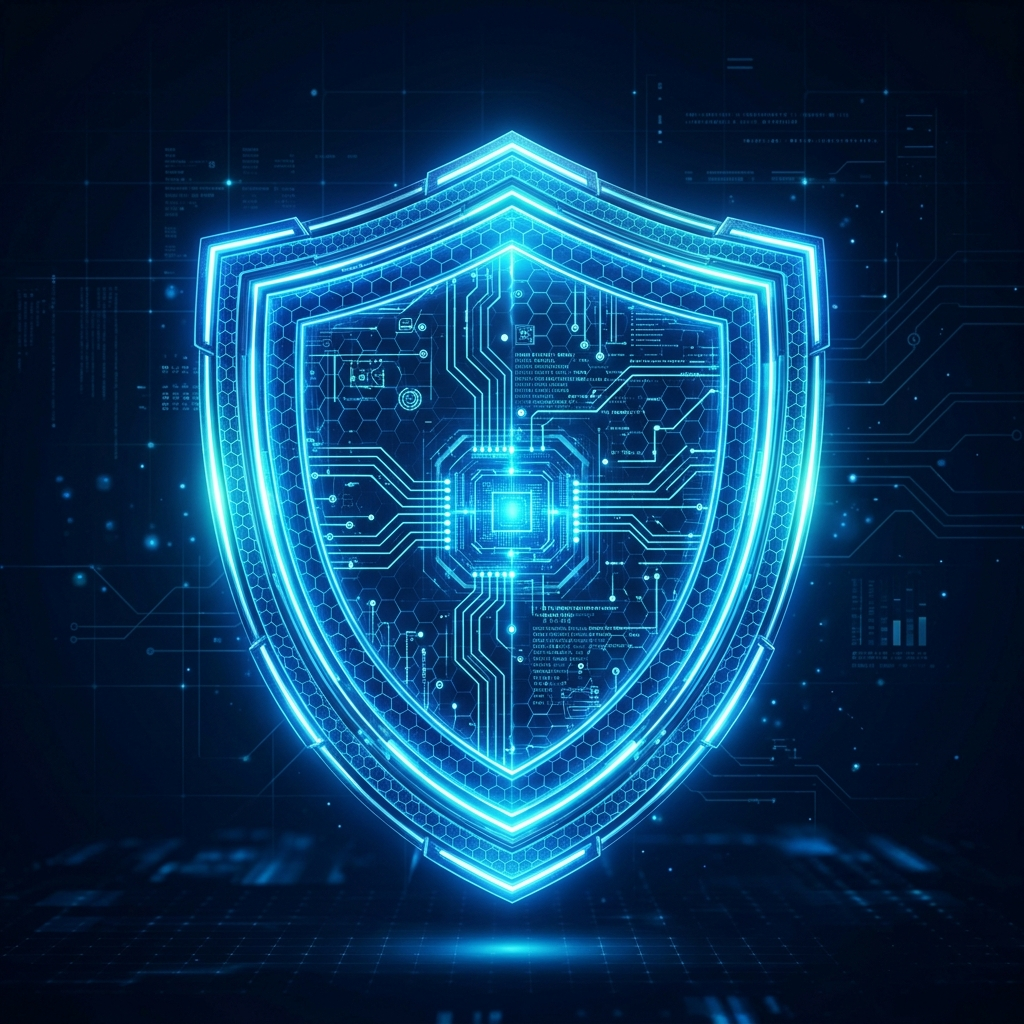
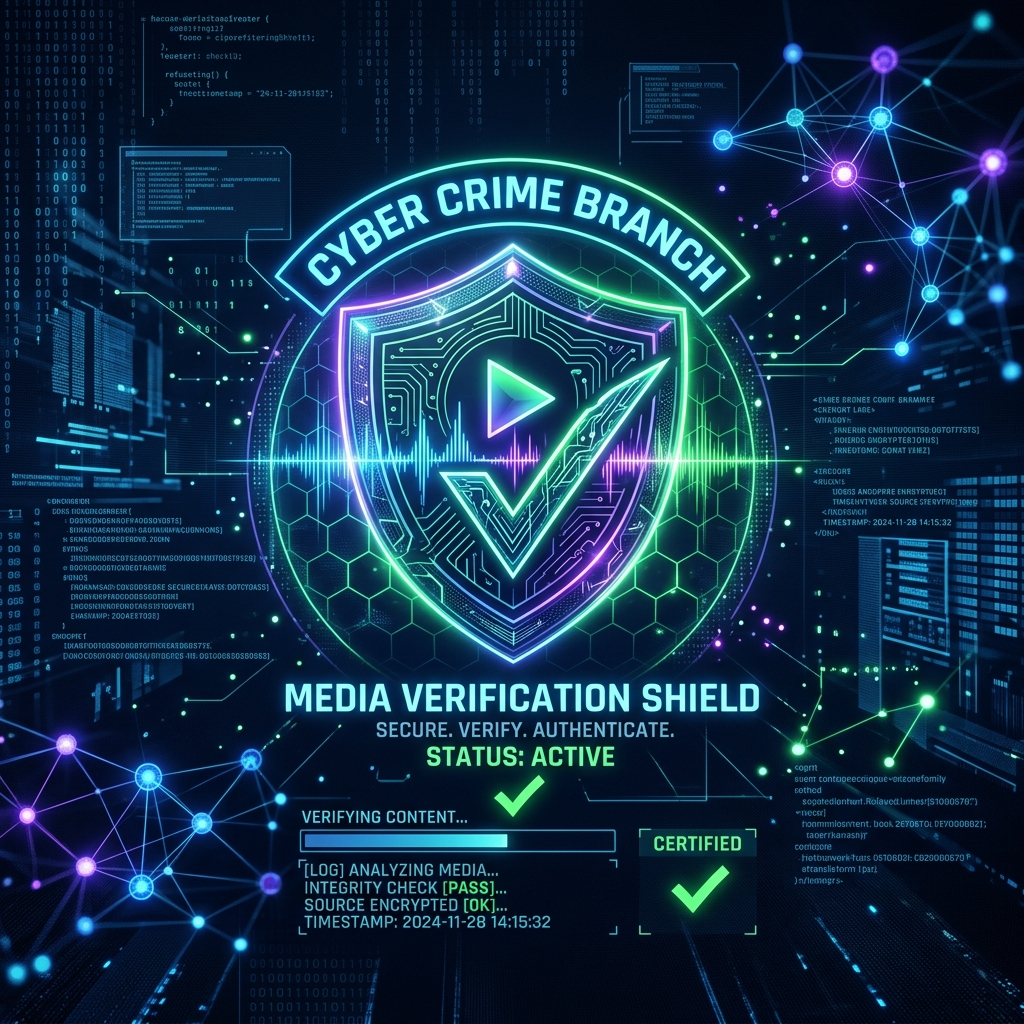
docs: add README.md and update hero image asset

diff --git a/README.md b/README.md
@@ -1,0 +1,69 @@
+# 🛡 TruthShield: AI-Driven Media Verification System
+
+**An advanced, client-side digital forensics and semantic check suite for detecting fake news, image manipulation, and video deepfakes.**
+
+TruthShield is a unified, user-friendly desktop interface designed to combat digital misinformation and media tampering. Leveraging **TensorFlow.js** for browser-side, GPU-accelerated neural networks, the system operates entirely client-side, ensuring privacy and rapid evaluation without requiring server-side heavy-processing backend pipelines.
+
+Developed under the conceptual requirements of the Cyber Crime Branch, Ahmedabad City Police.
+
+---
+
+## ✨ Key Forensic Pillars & ML Architecture
+
+### 1. 📝 Text Verification (Fake News & Stance Analysis)
+*   **Universal Sentence Encoder (USE)**: Embeds inputs into 512-dimensional semantic vectors.
+*   **Cosine Similarity Matching**: Computes similarity scores against a database of known misinformation and regional language hoaxes.
+*   **Zero-Shot Stance Detection**: Performs nearest-centroid classification across assertion, hedging, denial, questioning, and attribution stance vectors to understand the text's communicative profile.
+*   **Traditional NLP Fallback**: Employs tf-idf vectorization and rule-based stance marker lexicons if GPU backend initialization is bypassed.
+
+### 2. 🖼 Image Forensic Scanner (Splicing & GAN Fingerprints)
+*   **Error Level Analysis (ELA)**: Resaves the image at a known compression level to highlight pixel variance and highlight splicing boundaries.
+*   **Custom CNN Edge Classifier**: A convolutional neural network built in TF.js (`Conv2D` -> `MaxPooling2D` -> `Flatten` -> `Dense`) that scans local patch layers of the ELA canvas for compression anomalies.
+*   **MobileNet V2 Scene Classifier**: Identifies primary image entities (e.g. syringes, lemons, crowds) with confidence metrics to detect manipulation context.
+
+### 3. 📹 Video Deepfake Forensics (Temporal Stability)
+*   **Frame-by-Frame Classification**: Extracts frame slices from user-uploaded video timelines.
+*   **Temporal Neural Stability Checker**: Measures the variance and change frequency of top MobileNet predictions between consecutive frames. Sudden flickering changes indicate splicing and frame-morphing artifacts common in deepfakes.
+
+---
+
+## 🛠 Technology Stack
+*   **Frontend**: HTML5, Vanilla CSS (Dark tech theme with glassmorphism and modern UI elements), and JavaScript (ES6+).
+*   **Deep Learning Backend**: TensorFlow.js (WebGL backend for hardware acceleration, fallback to CPU).
+*   **Pretrained Models**: MobileNet V2 (Image & Video classifier), Universal Sentence Encoder (Text semantics).
+*   **Icons & Fonts**: FontAwesome, Google Fonts (Space Grotesk & Inter).
+
+---
+
+## 📂 Project Structure
+*   `index.html` — Core web portal, dashboards, and custom canvas elements.
+*   `css/style.css` — High-fidelity theme styling, loading indicators, and responsiveness.
+*   `js/mlCore.js` — TensorFlow.js orchestrator, model downloader, and CNN model constructor.
+*   `js/nlpEngine.js` — Heuristics-based text analyzer (fallback).
+*   `js/textAnalyzer.js` — Text verification pipeline combining USE and metadata checks.
+*   `js/imageAnalyzer.js` — ELA generator, MobileNet scene predictor, and CNN anomaly scanner.
+*   `js/videoAnalyzer.js` — Video timeline frame loader and temporal neural stability scorer.
+*   `js/app.js` — Orchestrates tab navigation, file upload triggers, and results rendering.
+
+---
+
+## 🚀 Running Locally
+
+Since the application utilizes client-side TensorFlow.js, it can be run via any local HTTP server:
+
+### Python HTTP Server
+```bash
+# Navigate to the project directory
+cd TruthShield
+
+# Start Python's built-in server
+python -m http.server 8000
+```
+Open your browser and navigate to `http://localhost:8000`.
+
+### Node.js http-server
+```bash
+npm install -g http-server
+http-server -p 8000
+```
+Open your browser and navigate to `http://localhost:8000`.
